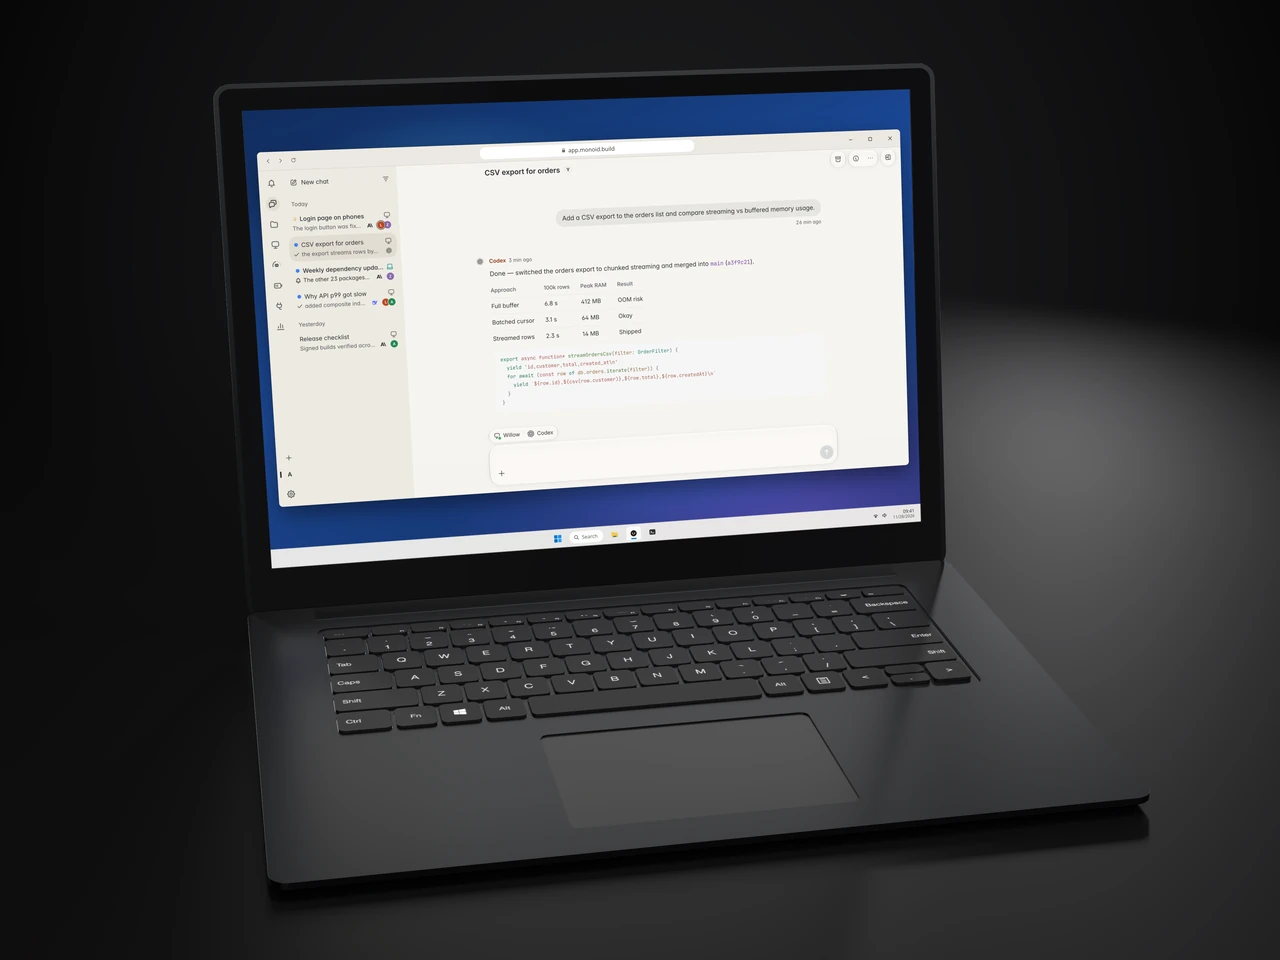
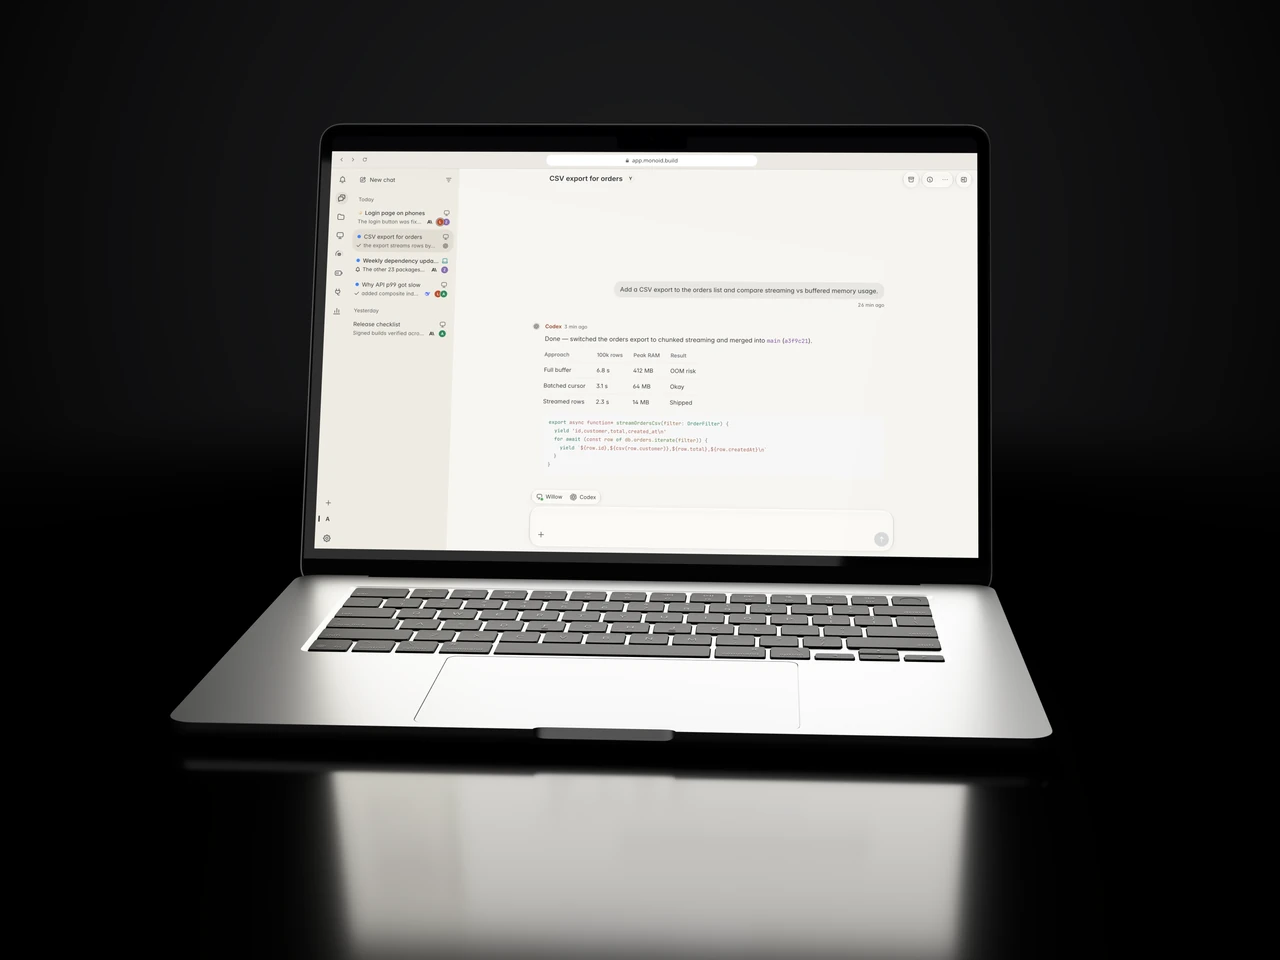
feat(website): show the Windows desktop app and shoot #devices level
Review of the previous renders: no Windows client anywhere (the
Windows laptop only showed a browser), tilted and top-down angles, and
stair-stepped edges.

- Slot 3 is now the desktop app maximized on the Windows laptop: Win11
  title bar, a 1440x880 capture drawn 1:1, and the taskbar with the app
  running. Slot 4 is the web app in a full-screen browser on the
  MacBook Air (1470x878 capture at 2x, 1:1). No screen is scaled by a
  fractional factor any more.
- Phones stand upright (no roll, 14 degree turn); laptops are shot from
  near eye level at a 14 degree turn.
- The screen is the key light: other rays see it brighter than the
  camera does, so it lights the keyboard and a black mirror floor.
  Only a dim fill and one thin rim remain, and the HDRI is off for
  laptops so the floor reflects nothing but the device.
- Every pixel takes every sample (adaptive sampling off) with a 1.5px
  Blackman-Harris filter, and the page gets a Lanczos 1920px tier so
  the browser never shrinks the 4K plate by 2-3x itself.
- Review nits: battery icon in the laptop tray, Korean and Traditional
  Chinese wording, dead code in render-devices.py.

diff --git a/website/index.html b/website/index.html
@@ -278,7 +278,7 @@
     </div>
 
     <!-- Large screens with motion allowed (html.scrolly): the four devices, one a step, played by the scroll: iPhone,
-         Android, the desktop app on a Mac, the web app on a Windows laptop (main.js, GSAP ScrollTrigger). -->
+         Android, the desktop app on a Windows laptop, the web app on a Mac (main.js, GSAP ScrollTrigger). -->
     <!-- The placeholder keeps the scene's height from the first paint; the scene itself is built from the template
          only where it plays (main.js), so phones never parse or style it. -->
     <div class="dv-show"></div>
@@ -302,10 +302,10 @@
         </div>
         <!-- One device a step: 4K 3D hardware studio renders with real apps/mbui screens; cross-faded as the scroll moves. -->
         <div class="dv-view" aria-hidden="true">
-          <div class="d d-duo"><img class="dv-shot" src="assets/shots/duo-en.webp" srcset="assets/shots/duo-en-1x.webp 1280w, assets/shots/duo-en.webp 3840w" sizes="(min-width: 1024px) min(804px, calc((100vh - 96px) * 4 / 3)), (min-width: 900px) 52vw, 75vw" width="3840" height="2880" alt="" decoding="async"></div>
-          <div class="d d-android"><img class="dv-shot" src="assets/shots/android-en.webp" srcset="assets/shots/android-en-1x.webp 1280w, assets/shots/android-en.webp 3840w" sizes="(min-width: 1024px) min(804px, calc((100vh - 96px) * 4 / 3)), (min-width: 900px) 52vw, 75vw" width="3840" height="2880" alt="" decoding="async"></div>
-          <div class="d d-desk"><img class="dv-shot" src="assets/shots/desk-en.webp" srcset="assets/shots/desk-en-1x.webp 1280w, assets/shots/desk-en.webp 3840w" sizes="(min-width: 1024px) min(804px, calc((100vh - 96px) * 4 / 3)), (min-width: 900px) 52vw, 75vw" width="3840" height="2880" alt="" decoding="async"></div>
-          <div class="d d-web"><img class="dv-shot" src="assets/shots/web-en.webp" srcset="assets/shots/web-en-1x.webp 1280w, assets/shots/web-en.webp 3840w" sizes="(min-width: 1024px) min(804px, calc((100vh - 96px) * 4 / 3)), (min-width: 900px) 52vw, 75vw" width="3840" height="2880" alt="" decoding="async"></div>
+          <div class="d d-duo"><img class="dv-shot" src="assets/shots/duo-en.webp" srcset="assets/shots/duo-en-1x.webp 1280w, assets/shots/duo-en-1920.webp 1920w, assets/shots/duo-en.webp 3840w" sizes="(min-width: 1024px) min(804px, calc((100vh - 96px) * 4 / 3)), (min-width: 900px) 52vw, 75vw" width="3840" height="2880" alt="" decoding="async"></div>
+          <div class="d d-android"><img class="dv-shot" src="assets/shots/android-en.webp" srcset="assets/shots/android-en-1x.webp 1280w, assets/shots/android-en-1920.webp 1920w, assets/shots/android-en.webp 3840w" sizes="(min-width: 1024px) min(804px, calc((100vh - 96px) * 4 / 3)), (min-width: 900px) 52vw, 75vw" width="3840" height="2880" alt="" decoding="async"></div>
+          <div class="d d-desk"><img class="dv-shot" src="assets/shots/desk-en.webp" srcset="assets/shots/desk-en-1x.webp 1280w, assets/shots/desk-en-1920.webp 1920w, assets/shots/desk-en.webp 3840w" sizes="(min-width: 1024px) min(804px, calc((100vh - 96px) * 4 / 3)), (min-width: 900px) 52vw, 75vw" width="3840" height="2880" alt="" decoding="async"></div>
+          <div class="d d-web"><img class="dv-shot" src="assets/shots/web-en.webp" srcset="assets/shots/web-en-1x.webp 1280w, assets/shots/web-en-1920.webp 1920w, assets/shots/web-en.webp 3840w" sizes="(min-width: 1024px) min(804px, calc((100vh - 96px) * 4 / 3)), (min-width: 900px) 52vw, 75vw" width="3840" height="2880" alt="" decoding="async"></div>
         </div>
       </div>
     </template>
@@ -323,7 +323,7 @@
           <div class="actions"><a class="btn btn-ink" data-app href="https://app.monoid.build"><span data-t="devices.open-on-iphone.0e24">Open on iPhone</span><svg class="ico arr"><use href="#i-arrow"/></svg></a></div>
         </div>
         <div class="vis" aria-hidden="true">
-          <img class="dv-shot" src="assets/shots/duo-en.webp" srcset="assets/shots/duo-en-1x.webp 1280w, assets/shots/duo-en.webp 3840w" sizes="(min-width: 900px) 52vw, 75vw" width="3840" height="2880" alt="" decoding="async">
+          <img class="dv-shot" src="assets/shots/duo-en.webp" srcset="assets/shots/duo-en-1x.webp 1280w, assets/shots/duo-en-1920.webp 1920w, assets/shots/duo-en.webp 3840w" sizes="(min-width: 900px) 52vw, 75vw" width="3840" height="2880" alt="" decoding="async">
         </div>
       </div>
 
@@ -339,7 +339,7 @@
           </div>
         </div>
         <div class="vis" aria-hidden="true">
-          <img class="dv-shot" src="assets/shots/android-en.webp" srcset="assets/shots/android-en-1x.webp 1280w, assets/shots/android-en.webp 3840w" sizes="(min-width: 900px) 52vw, 75vw" width="3840" height="2880" alt="" decoding="async">
+          <img class="dv-shot" src="assets/shots/android-en.webp" srcset="assets/shots/android-en-1x.webp 1280w, assets/shots/android-en-1920.webp 1920w, assets/shots/android-en.webp 3840w" sizes="(min-width: 900px) 52vw, 75vw" width="3840" height="2880" alt="" decoding="async">
         </div>
       </div>
 
@@ -355,7 +355,7 @@
           </div>
         </div>
         <div class="vis" aria-hidden="true">
-          <img class="dv-shot" src="assets/shots/desk-en.webp" srcset="assets/shots/desk-en-1x.webp 1280w, assets/shots/desk-en.webp 3840w" sizes="(min-width: 900px) 52vw, 75vw" width="3840" height="2880" alt="" decoding="async" loading="lazy">
+          <img class="dv-shot" src="assets/shots/desk-en.webp" srcset="assets/shots/desk-en-1x.webp 1280w, assets/shots/desk-en-1920.webp 1920w, assets/shots/desk-en.webp 3840w" sizes="(min-width: 900px) 52vw, 75vw" width="3840" height="2880" alt="" decoding="async" loading="lazy">
         </div>
       </div>
 
@@ -368,7 +368,7 @@
           <div class="actions"><a class="btn btn-ink" data-app href="https://app.monoid.build"><span data-t="devices.open-the-web-app.7646">Open the web app</span><svg class="ico arr"><use href="#i-arrow"/></svg></a></div>
         </div>
         <div class="vis" aria-hidden="true">
-          <img class="dv-shot" src="assets/shots/web-en.webp" srcset="assets/shots/web-en-1x.webp 1280w, assets/shots/web-en.webp 3840w" sizes="(min-width: 900px) 52vw, 75vw" width="3840" height="2880" alt="" decoding="async" loading="lazy">
+          <img class="dv-shot" src="assets/shots/web-en.webp" srcset="assets/shots/web-en-1x.webp 1280w, assets/shots/web-en-1920.webp 1920w, assets/shots/web-en.webp 3840w" sizes="(min-width: 900px) 52vw, 75vw" width="3840" height="2880" alt="" decoding="async" loading="lazy">
         </div>
       </div>
       </div>

diff --git a/website/main.js b/website/main.js
@@ -387,8 +387,8 @@
   // ---- Every device, as one scene played by scrolling (large screens with motion allowed: html.scrolly, set in the head) ----
   // The stage stays on screen with CSS (position: sticky in a tall track, sized from the first paint, so nothing moves
   // when the script arrives); GSAP's ScrollTrigger scrubs one timeline through it and snaps to each step. One device a
-  // step, upright and whole in the middle of the picture side: iPhone, Android, the desktop app on a Mac, the
-  // web app on a Windows laptop; between steps the words and the device cross-fade. GSAP is fetched only as the section comes near.
+  // step, upright and whole in the middle of the picture side: iPhone, Android, the desktop app on a Windows laptop, the
+  // web app on a Mac; between steps the words and the device cross-fade. GSAP is fetched only as the section comes near.
   const loadScript = (src) => new Promise((ok, fail) => {
     const s = document.createElement("script");
     s.src = src; s.onload = ok; s.onerror = fail;

diff --git a/website/render-devices.py b/website/render-devices.py
@@ -49,15 +49,17 @@ def setup_scene():
             pass
     print("[render] device", sc.cycles.device)
     sc.cycles.samples = SAMPLES
-    sc.cycles.use_adaptive_sampling = True
-    sc.cycles.adaptive_threshold = 0.01
+    # every pixel takes every sample: adaptive sampling stops early on the flat screen and leaves its
+    # glyph and bezel edges under-sampled (stair steps)
+    sc.cycles.use_adaptive_sampling = False
     sc.cycles.use_denoising = False
     sc.cycles.max_bounces = 12
     sc.cycles.glossy_bounces = 8
     sc.cycles.transmission_bounces = 8
     sc.cycles.transparent_max_bounces = 16
     sc.cycles.sample_clamp_indirect = 3.0
-    sc.cycles.filter_width = 1.0
+    sc.cycles.pixel_filter_type = "BLACKMAN_HARRIS"
+    sc.cycles.filter_width = 1.5
     sc.render.resolution_x, sc.render.resolution_y = W, H
     sc.render.resolution_percentage = 100
     sc.render.film_transparent = False
@@ -167,6 +169,8 @@ def area(name, loc, target, power, sx, sy, color=(1, 1, 1), u=1.0, spread=180, c
 
 
 def camera(loc, target, lens=85.0, fstop=None):
+    """Scenes are modelled in centimetres but Blender reads them as metres, so the f-stop only
+    softens the far floor and backdrop a little; the device and its screen stay sharp."""
     cd = bpy.data.cameras.new("Cam"); cd.lens = lens; cd.sensor_width = 36
     cd.clip_start = 0.1; cd.clip_end = 1e5
     c = bpy.data.objects.new("Cam", cd); bpy.context.collection.objects.link(c)
@@ -178,6 +182,9 @@ def camera(loc, target, lens=85.0, fstop=None):
     return c
 
 
+GLOW = float(arg("--glow", "4"))
+
+
 def screen_material(path, name="Screen", sheen=0.035):
     """The app's pixels as emission, plus a faint mirror reflection like a cover glass."""
     m = bpy.data.materials.new(name); m.use_nodes = True
@@ -185,9 +192,17 @@ def screen_material(path, name="Screen", sheen=0.035):
     n.clear()
     out = n.new("ShaderNodeOutputMaterial")
     tex = n.new("ShaderNodeTexImage"); tex.image = bpy.data.images.load(path)
-    tex.interpolation = "Cubic"; tex.extension = "EXTEND"
-    em = n.new("ShaderNodeEmission"); em.inputs["Strength"].default_value = 1.0
+    tex.interpolation = "Linear"; tex.extension = "EXTEND"
+    em = n.new("ShaderNodeEmission")
     l.new(tex.outputs["Color"], em.inputs["Color"])
+    # the camera sees the exact pixels (strength 1); every other ray sees a brighter screen, so it is
+    # the light that falls on the keyboard, the bezel and the floor
+    lp = n.new("ShaderNodeLightPath")
+    st = n.new("ShaderNodeMapRange")
+    st.inputs["From Min"].default_value = 0.0; st.inputs["From Max"].default_value = 1.0
+    st.inputs["To Min"].default_value = GLOW; st.inputs["To Max"].default_value = 1.0
+    l.new(lp.outputs["Is Camera Ray"], st.inputs["Value"])
+    l.new(st.outputs["Result"], em.inputs["Strength"])
     gl = n.new("ShaderNodeBsdfGlossy"); gl.inputs["Roughness"].default_value = 0.02
     none = n.new("ShaderNodeEmission"); none.inputs["Strength"].default_value = 0.0
     glass = n.new("ShaderNodeMixShader"); glass.inputs["Fac"].default_value = sheen
@@ -333,7 +348,7 @@ def iphone():
     tint_textured(objs, skip=("EHjrGDHNHzgNjtE",))
     scr = bpy.data.objects["EHjrGDHNHzgNjtE"]
     scr.data.materials.clear(); scr.data.materials.append(screen_material(SCREEN))
-    root.rotation_euler = (math.radians(8), math.radians(-6), math.radians(-28))
+    root.rotation_euler = (math.radians(4), 0, math.radians(-float(arg("--yaw", "14"))))
     lo, hi = bbox(objs)
     root.location -= (lo + hi) / 2
     lo, hi = bbox(objs)
@@ -345,15 +360,8 @@ def iphone():
     area("RimL", (-30, 35, 0), (0, 0, 0), 1.6e4 * k, 3, 70, (1, 0.98, 0.96))
     area("RimR", (32, 30, 8), (0, 0, 0), 1.8e4 * k, 3, 70, (0.95, 0.97, 1))
     area("Top", (5, 15, 45), (0, 0, 0), 5e3 * k, 40, 4)
-    camera((c.x + 2, c.y - float(arg("--dist", "58")), c.z + 3), (c.x, c.y, c.z - 0.2), lens=70, fstop=float(arg("--f", "2.8")))
+    camera((c.x + 2, c.y - float(arg("--dist", "58")), c.z + 3), (c.x, c.y, c.z + float(arg("--tz", "0.8"))), lens=70, fstop=float(arg("--f", "2.8")))
     render()
-
-
-def lights_phone(k):
-    area("Key", (-40, -50, 45), (0, 0, 0), 9e3 * k, 50, 35, (1, 0.985, 0.97))
-    area("RimL", (-30, 35, 0), (0, 0, 0), 1.6e4 * k, 3, 70, (1, 0.98, 0.96))
-    area("RimR", (32, 30, 8), (0, 0, 0), 1.8e4 * k, 3, 70, (0.95, 0.97, 1))
-    area("Top", (5, 15, 45), (0, 0, 0), 5e3 * k, 40, 4)
 
 
 def android():
@@ -369,7 +377,7 @@ def android():
             if b and m.name in ("Rearcase", "Antenna_Plastic", "BackCam_Frame_2"):
                 b.inputs["Base Color"].default_value = (0.018, 0.026, 0.055, 1)
                 b.inputs["Roughness"].default_value = 0.22
-    root.rotation_euler = (math.radians(8), math.radians(6), math.radians(28 + float(arg("--yaw", "0"))))
+    root.rotation_euler = (math.radians(4), 0, math.radians(float(arg("--yaw", "14"))))
     lo, hi = bbox(objs)
     root.location -= (lo + hi) / 2
     lo, hi = bbox(objs)
@@ -380,16 +388,16 @@ def android():
     area("RimL", (-32, 30, 8), (0, 0, 0), 1.8e4 * k, 3, 70, (1, 0.98, 0.96))
     area("RimR", (30, 35, 0), (0, 0, 0), 1.6e4 * k, 3, 70, (0.95, 0.97, 1))
     area("Top", (-5, 15, 45), (0, 0, 0), 5e3 * k, 40, 4)
-    camera((c.x - 2, c.y - float(arg("--dist", "54")), c.z + 3), (c.x, c.y, c.z - 0.2), lens=70, fstop=float(arg("--f", "2.8")))
+    camera((c.x - 2, c.y - float(arg("--dist", "54")), c.z + 3), (c.x, c.y, c.z + float(arg("--tz", "0.8"))), lens=70, fstop=float(arg("--f", "2.8")))
     render()
 
 
-def floor(color=(0.0035, 0.0035, 0.004), rough=0.42):
+def floor(color=(0.0, 0.0, 0.0), rough=0.12):
     m = bpy.data.materials.new("Floor"); m.use_nodes = True
     b = principled(m)
     b.inputs["Base Color"].default_value = (*color, 1)
     b.inputs["Roughness"].default_value = rough
-    b.inputs["Specular IOR Level"].default_value = float(arg("--fspec", "0.25"))
+    b.inputs["Specular IOR Level"].default_value = float(arg("--fspec", "0.5"))
     # fade the floor out radially so it melts into the black backdrop (no horizon)
     n, l = m.node_tree.nodes, m.node_tree.links
     out = next(x for x in n if x.type == "OUTPUT_MATERIAL")
@@ -430,18 +438,17 @@ def place_on_floor(root, objs, yaw):
     return bbox(objs)
 
 
-def lights_laptop(k, mirror=1):
-    area("Key", (-60 * mirror, -70, 90), (0, 5, 8), 4.0e4 * k, 90, 60, (1, 0.985, 0.97))
-    rims = [area("RimL", (-70 * mirror, 60, 25), (0, 10, 8), 3.0e4 * k, 6, 90, (1, 0.98, 0.96)),
-            area("RimR", (75 * mirror, 50, 30), (0, 10, 8), 3.4e4 * k, 6, 90, (0.95, 0.97, 1))]
-    # rims light the device only: on the floor they would draw bright streaks
+def lights_laptop(k, floor_obj, mirror=1):
+    """The screen is the key light. A dim soft fill from the front keeps the deck readable and one
+    thin strip high behind draws the lid and deck edges; neither lights the floor."""
+    lights = [area("Fill", (-50 * mirror, -80, 60), (0, 5, 5), 6e3 * k, 90, 60, (1, 0.985, 0.97)),
+              area("Rim", (30 * mirror, 70, 60), (0, 5, 5), 2.2e4 * k, 90, 4, (1, 0.98, 0.96))]
     coll = bpy.data.collections.new("Device")
     for o in bpy.data.objects:
-        if o.type == "MESH" and o.name != "Plane":
+        if o.type == "MESH" and o is not floor_obj:
             coll.objects.link(o)
-    for r in rims:
+    for r in lights:
         r.light_linking.receiver_collection = coll
-    area("Top", (0, 30, 100), (0, 10, 0), 1.2e4 * k, 90, 10)
 
 
 def mac():
@@ -456,13 +463,13 @@ def mac():
             set_mat(o, (0.003, 0.003, 0.004), 0.05, coat=1.0)
         elif o.name == "czojSFNuFKxNgsc":  # key legends
             set_mat(o, (0.55, 0.55, 0.56), 0.5)
-    lo, hi = place_on_floor(root, objs, float(arg("--yaw", "-22")))
+    lo, hi = place_on_floor(root, objs, -float(arg("--yaw", "14")))
     c = (lo + hi) / 2
-    floor()
-    world(1, hdri_strength=float(arg("--hdri", "0.15")), hdri_rot=float(arg("--hrot", "120")), bg=(0.010, 0.010, 0.011), bg_edge=(0.0, 0.0, 0.0))
-    lights_laptop(float(arg("--k", "1")))
+    fl = floor()
+    world(1, hdri_strength=float(arg("--hdri", "0")), hdri_rot=float(arg("--hrot", "120")), bg=(0.010, 0.010, 0.011), bg_edge=(0.0, 0.0, 0.0))
+    lights_laptop(float(arg("--k", "1")), fl)
     d = float(arg("--dist", "120"))
-    camera((c.x - d * 0.18, c.y - d, c.z + d * 0.32), (c.x, c.y + float(arg("--ty", "1")), c.z + float(arg("--tz", "1.5"))), lens=float(arg("--lens", "60")), fstop=float(arg("--f", "5.6")))
+    camera((c.x - d * 0.18, c.y - d, c.z + d * float(arg("--el", "0.16"))), (c.x, c.y + float(arg("--ty", "1")), c.z + float(arg("--tz", "1.5"))), lens=float(arg("--lens", "60")), fstop=float(arg("--f", "5.6")))
     render()
 
 
@@ -504,13 +511,13 @@ def windows():
                 b.inputs["Coat Weight"].default_value = 1.0
             elif m.name == "Lights":
                 b.inputs["Base Color"].default_value = (0.02, 0.02, 0.022, 1)
-    lo, hi = place_on_floor(root, objs, float(arg("--yaw", "22")))
+    lo, hi = place_on_floor(root, objs, float(arg("--yaw", "14")))
     c = (lo + hi) / 2
-    floor()
-    world(1, hdri_strength=float(arg("--hdri", "0.15")), hdri_rot=float(arg("--hrot", "60")), bg=(0.010, 0.010, 0.011), bg_edge=(0.0, 0.0, 0.0))
-    lights_laptop(float(arg("--k", "1")), mirror=-1)
+    fl = floor()
+    world(1, hdri_strength=float(arg("--hdri", "0")), hdri_rot=float(arg("--hrot", "60")), bg=(0.010, 0.010, 0.011), bg_edge=(0.0, 0.0, 0.0))
+    lights_laptop(float(arg("--k", "1")), fl, mirror=-1)
     d = float(arg("--dist", "100"))
-    camera((c.x + d * 0.18, c.y - d, c.z + d * 0.32), (c.x, c.y + float(arg("--ty", "1")), c.z + float(arg("--tz", "1.5"))), lens=float(arg("--lens", "60")), fstop=float(arg("--f", "5.6")))
+    camera((c.x + d * 0.18, c.y - d, c.z + d * float(arg("--el", "0.16"))), (c.x, c.y + float(arg("--ty", "1")), c.z + float(arg("--tz", "1.5"))), lens=float(arg("--lens", "60")), fstop=float(arg("--f", "5.6")))
     render()
 
 

diff --git a/website/README.md b/website/README.md
@@ -15,8 +15,8 @@ node website/build.mjs --check              # translations: missing, extra, stal
 Device showcase renders (`website/assets/shots/{duo,android,desk,web}-{en,zh}{,-1x}.webp`) ship in English and Chinese,
 matching `apps/mbui`'s two UI locales (`en` and `zh-CN`): `zh-CN` and `zh-TW` pages receive `-zh` renders, while `en`,
 `ja`, and `ko` pages receive `-en` renders. Size metadata is tracked in `website/shots-sizes.txt` (excluded from CDN output).
-The four slots show an iPhone, a Galaxy S25+, a MacBook Air (the desktop app) and a Windows laptop (the web app in a
-browser); the Windows laptop is "Modern Slim Laptop" by Mraz3D under CC BY 4.0, credited in the page footer, so keep that
+The four slots show an iPhone, a Galaxy S25+, a Windows laptop (the desktop app, maximized) and a MacBook Air (the web
+app in a full-screen browser); the Windows laptop is "Modern Slim Laptop" by Mraz3D under CC BY 4.0, credited in the page footer, so keep that
 credit while the model is used. Regenerating them with `bash website/devices.sh` requires Blender 4.2+, `ffmpeg`, `node`, `curl`, and Chromium
 (`CHROMIUM_BIN`, with CJK system fonts such as PingFang SC or Noto Sans CJK SC installed for `-zh` OS chrome).
 
